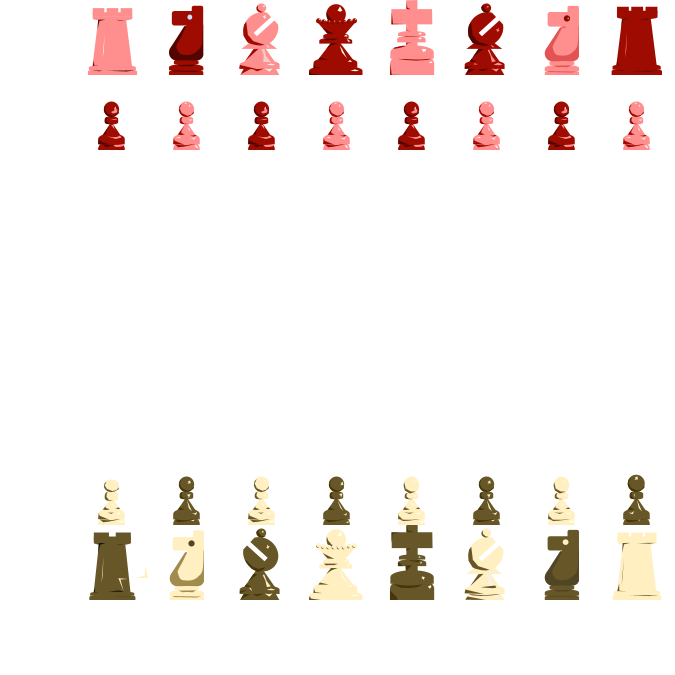
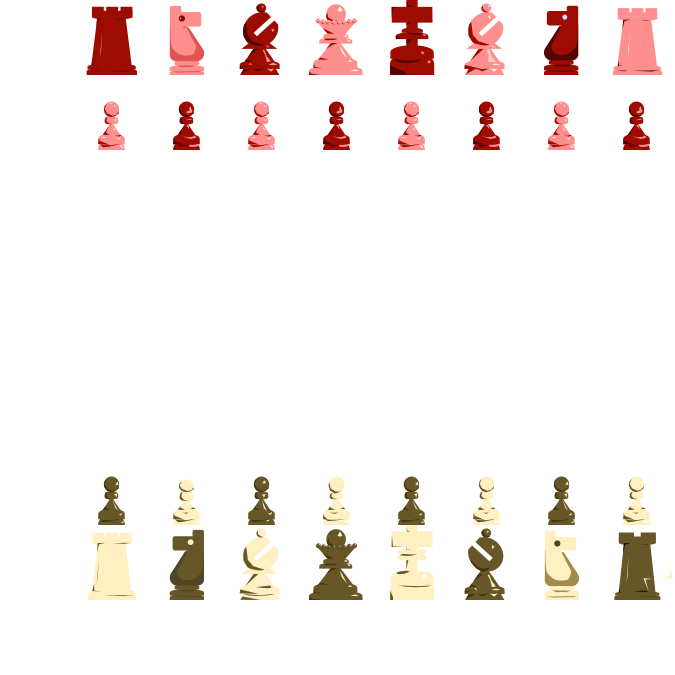
updates

diff --git a/board_factory/src/main.rs b/board_factory/src/main.rs
@@ -3,13 +3,9 @@ use std::path::Path;
 use image::{Rgba, ImageBuffer, GenericImageView};
 use rand::Rng;
 use std::{fs, io};
-// use std::fs::File;
-
-use std::io::Error;
-// use std::io::ErrorKind;
+use std::io::{ErrorKind, Error};
 use std::fmt::Debug;
-// use std::io::Read; 
-// use std::path::PathBuf;
+
 
 // fn combine_side_by_side<P: AsRef<Path>>(image_path1: P, image_path2: P, output_path: P) -> Result<(), image::ImageError> {
 fn combine_side_by_side<P: AsRef<Path> + Debug>(image_path1: P, image_path2: P, output_path: P) -> Result<(), image::ImageError> {
@@ -99,14 +95,6 @@ fn combine_top_to_bottom<P: AsRef<Path> + Debug>(image_path1: P, image_path2: P,
 
 
 
-
-// fn overlay_images<P: AsRef<Path>>(image_path1: P, image_path2: P, output_path: P) -> Result<(), image::ImageError> {
-// fn overlay_images<P: AsRef<Path> + std::fmt::Debug>(
-//         image_path1: P,
-//         image_path2: P,
-//         output_path: P,
-//     ) -> Result<(), image::ImageError> {
-//     println!("Overlaying images...");
 fn overlay_images<P: AsRef<Path> + std::fmt::Debug>(
     image_path1: P,
     image_path2: P,
@@ -118,10 +106,6 @@ fn overlay_images<P: AsRef<Path> + std::fmt::Debug>(
         &image_path2,
         &output_path
     );
-
-    // // Load the images.
-    // let mut image1 = image::open(image_path1)?.to_rgba8();
-    // let image2 = image::open(image_path2)?.to_rgba8();
 
     // Load the images with custom error handling
     let mut image1 = image::open(&image_path1)
@@ -151,11 +135,11 @@ fn overlay_images<P: AsRef<Path> + std::fmt::Debug>(
 
 // A simple alpha blending function. You might want to use a more sophisticated blending function depending on your needs.
 fn blend_pixels(bottom: &mut Rgba<u8>, top: Rgba<u8>) {
-    println!(
-        "\nblend_pixels...\nbottom: {:?}\ntop: {:?}",
-        bottom,
-        top,
-    );
+    // println!(
+    //     "\nblend_pixels...\nbottom: {:?}\ntop: {:?}",
+    //     bottom,
+    //     top,
+    // );
 
     let alpha_top = top[3] as f32 / 255.0;
     let alpha_bottom = bottom[3] as f32 * (1.0 - alpha_top) / 255.0;
@@ -169,10 +153,10 @@ fn blend_pixels(bottom: &mut Rgba<u8>, top: Rgba<u8>) {
 
 
 fn random_image_from_directory(directory: &str) -> Result<String, std::io::Error> {
-    println!(
-        "\nrandom_image_from_directory...\ndirectory: {:?}",
-        &directory,
-    );
+    // println!(
+    //     "\nrandom_image_from_directory...\ndirectory: {:?}",
+    //     &directory,
+    // );
     let paths: Vec<_> = fs::read_dir(directory)?
         .filter_map(Result::ok) // Only keep the Ok values
         .collect();
@@ -191,7 +175,7 @@ fn random_image_from_directory(directory: &str) -> Result<String, std::io::Error
 
 
 fn make_board_core(sandbox_path: &str, orientation_white: bool) -> Result<(), io::Error> {
-    println!("\nmake_board_core()...");
+    // println!("\nmake_board_core()...");
     let mut row_images = Vec::new();
 
     // Make the 8 Rows
@@ -249,12 +233,12 @@ fn make_board_core(sandbox_path: &str, orientation_white: bool) -> Result<(), io
 
 
 fn make_and_attach_letter_bar(sandbox_path: &str, orientation_white: bool, board_image_path: &str) -> Result<(), io::Error> {
-    println!(
-        "make_and_attach_letter_bar images...\nsandbox_path: {:?}\norientation_white: {:?}\nboard_image_path: {:?}",
-        &sandbox_path,
-        &orientation_white,
-        &board_image_path
-    );
+    // println!(
+    //     "make_and_attach_letter_bar images...\nsandbox_path: {:?}\norientation_white: {:?}\nboard_image_path: {:?}",
+    //     &sandbox_path,
+    //     &orientation_white,
+    //     &board_image_path
+    // );
 
     // Determine the order of letters
     let letters_order = if orientation_white {
@@ -295,12 +279,12 @@ fn make_and_attach_letter_bar(sandbox_path: &str, orientation_white: bool, board
 
 
 fn make_and_attach_number_bar(sandbox_path: &str, orientation_white: bool, board_image_path: &str) -> Result<(), io::Error> {
-    println!(
-        "make_and_attach_number_bar images...\nsandbox_path: {:?}\norientation_white: {:?}\nboard_image_path: {:?}",
-        &sandbox_path,
-        &orientation_white,
-        &board_image_path
-    );
+    // println!(
+    //     "make_and_attach_number_bar images...\nsandbox_path: {:?}\norientation_white: {:?}\nboard_image_path: {:?}",
+    //     &sandbox_path,
+    //     &orientation_white,
+    //     &board_image_path
+    // );
 
     // Determine the order of numbers
     let numbers_order = if orientation_white {
@@ -353,22 +337,12 @@ fn make_and_attach_number_bar(sandbox_path: &str, orientation_white: bool, board
 
 
 fn generate_chessboard_backboard_wrapper(game_name: &str, orientation_white: bool) -> Result<(), Error> {
-    println!(
-        "generate_chessboard_backboard_wrapper images...\ngame_name: {:?}\norientation_white: {:?}",
-        &game_name,
-        &orientation_white,
-    );
-    /*
-    Add ~two changes:
-    1. a new input to the function: game_name(str)
-    back_board sandbox path ->
-    games/{gamename}/sandboxes/sandbox
-    _backboard,
-    2. if folder already exists, delete it.
-    3. make sure function can clean-err
-    without crashing the server.
+    // println!(
+    //     "generate_chessboard_backboard_wrapper images...\ngame_name: {:?}\norientation_white: {:?}",
+    //     &game_name,
+    //     &orientation_white,
+    // );
 
-    */
     let sandbox_path: String = format!("games/{}/sandboxes/sandbox_backboard", game_name);
 
     // Check if the sandbox_backboard folder exists
@@ -415,19 +389,19 @@ fn generate_chessboard_backboard_wrapper(game_name: &str, orientation_white: boo
 }
 
 
-// use image::DynamicImage;
-// // Make chess_pieces_layer()
 
-// fn create_chess_pieces_layer(chessboard: &[[char; 8]; 8]) -> Result<ImageBuffer<Rgba<u8>, Vec<u8>>, io::Error> {
-//     println!(
-//         "\ncreate_chess_pieces_layer images...\nchessboard: {:?}",
-//         &chessboard,
-//     );
+// fn create_chess_pieces_layer(chessboard: &[[char; 8]; 8], white_orientation: bool) -> Result<ImageBuffer<Rgba<u8>, Vec<u8>>, io::Error> {
+//     let mut img = ImageBuffer::new(600, 600); // 8x8 squares at 75 pixels
 
-//     let mut img = ImageBuffer::new(600, 600); // Assuming 75x75 pixels for each square
 //     for (row, row_pieces) in chessboard.iter().enumerate() {
 //         for (col, &piece) in row_pieces.iter().enumerate() {
-//             let square_color = if (row + col) % 2 == 0 { "darksquare" } else { "lightsquare" }; // Fixed logic
+//             let (actual_row, actual_col) = if white_orientation {
+//                 (row, col)
+//             } else {
+//                 (7 - row, 7 - col)
+//             };
+            
+//             let square_color = if (actual_row + actual_col) % 2 != 0 { "darksquare" } else { "lightsquare" };
 //             let (piece_prefix, piece_suffix) = match piece {
 
 //                 'p' => ("p_", square_color),
@@ -443,28 +417,14 @@ fn generate_chessboard_backboard_wrapper(game_name: &str, orientation_white: boo
 //                 'Q' => ("Q_", square_color),
 //                 'K' => ("K_", square_color),
 //                 _ => continue,
+            
 //             };
-
-//             // let piece_image_path = format!("image_files/chess_pieces/{}{}", piece_prefix, piece_suffix);
-//             // let piece_image = image::open(Path::new(&piece_image_path))?;
-
-//             // let piece_image_path = format!("image_files/chess_pieces/{}{}/image.png", piece_prefix, piece_suffix); // Added a slash and image filename
 
 //             let texture_directory = format!("image_files/chess_pieces/{}{}", piece_prefix, piece_suffix);
 //             let piece_image_path = random_image_from_directory(&texture_directory)?;
-
-//             println!("Piece: {}", piece);
-//             println!("piece_prefix: {}", piece_prefix);
-//             println!("piece_suffix: {}", piece_suffix);
-//             println!("piece_image_path: {}", piece_image_path);
-
 //             let piece_image = image::open(Path::new(&piece_image_path)).map_err(|e| io::Error::new(ErrorKind::Other, e))?;
 
-//             let piece_image_path = format!("image_files/chess_pieces/{}{}", piece_prefix, piece_suffix);
-//             let piece_image = image::open(Path::new(&piece_image_path)).map_err(|e| io::Error::new(ErrorKind::Other, e))?;
-         
-//             let piece_image: DynamicImage = piece_image; // Ensure the correct type for piece_image
-//             let (x, y) = (col * 100, row * 100);
+//             let (x, y) = (col * 75, row * 75);
 
 //             // Overlay the piece image on the correct square
 //             for (i, j, pixel) in piece_image.pixels() {
@@ -474,38 +434,19 @@ fn generate_chessboard_backboard_wrapper(game_name: &str, orientation_white: boo
 //         }
 //     }
 
-//     //  append the blank rows and columns
-//     let bottom_blank_path = "image_files/legend_alpha_num/8x_blank_bottom.png";
-//     let top_blank_path = "image_files/legend_alpha_num/9x_blank_top.png";
-
-//     let bottom_blank_image = image::open(Path::new(bottom_blank_path)).map_err(|e| io::Error::new(ErrorKind::Other, e))?;
-//     let top_blank_image = image::open(Path::new(top_blank_path)).map_err(|e| io::Error::new(ErrorKind::Other, e))?;
-
-//     // let piece_image = image::open(Path::new(&piece_image_path)).map_err(|e| io::Error::new(ErrorKind::Other, e))?;
-
-//     // Concatenate the images
-//     let mut final_image = ImageBuffer::new(675, 675); // 9x9 squares at 75 pixels
-//     image::imageops::overlay(&mut final_image, &img, 0, 0);
-//     image::imageops::overlay(&mut final_image, &bottom_blank_image, 0, 600); // Append to the bottom
-//     image::imageops::overlay(&mut final_image, &top_blank_image, 600, 0); // Append to the right side
-
-//     Ok(final_image)
-
+//     Ok(img)
 // }
 
 
 fn create_chess_pieces_layer(chessboard: &[[char; 8]; 8], white_orientation: bool) -> Result<ImageBuffer<Rgba<u8>, Vec<u8>>, io::Error> {
     let mut img = ImageBuffer::new(600, 600); // 8x8 squares at 75 pixels
 
-    for (row, row_pieces) in chessboard.iter().enumerate() {
-        for (col, &piece) in row_pieces.iter().enumerate() {
-            let (actual_row, actual_col) = if white_orientation {
-                (row, col)
-            } else {
-                (7 - row, 7 - col)
-            };
-            
-            let square_color = if (actual_row + actual_col) % 2 == 0 { "darksquare" } else { "lightsquare" };
+
+    if white_orientation {
+        for (row, row_pieces) in chessboard.iter().enumerate() {
+            for (col, &piece) in row_pieces.iter().enumerate() {
+                // Process the piece, (row, col) will be the actual coordinates for white orientation
+                let square_color = if (row + col) % 2 != 0 { "darksquare" } else { "lightsquare" };
             let (piece_prefix, piece_suffix) = match piece {
 
                 'p' => ("p_", square_color),
@@ -535,60 +476,50 @@ fn create_chess_pieces_layer(chessboard: &[[char; 8]; 8], white_orientation: boo
                 let (x_new, y_new) = (x + i as usize, y + j as usize);
                 img.put_pixel(x_new as u32, y_new as u32, pixel);
             }
+            }
         }
+
+
+    } else {
+        for (row, row_pieces) in chessboard.iter().rev().enumerate() {
+            for (col, &piece) in row_pieces.iter().rev().enumerate() {
+                // Process the piece, (7 - row, 7 - col) will be the actual coordinates for black orientation
+                let square_color = if (row + col) % 2 != 0 { "darksquare" } else { "lightsquare" };
+            let (piece_prefix, piece_suffix) = match piece {
+
+                'p' => ("p_", square_color),
+                'r' => ("r_", square_color),
+                'n' => ("n_", square_color),
+                'b' => ("b_", square_color),
+                'q' => ("q_", square_color),
+                'k' => ("k_", square_color),
+                'P' => ("P_", square_color),
+                'R' => ("R_", square_color),
+                'N' => ("N_", square_color),
+                'B' => ("B_", square_color),
+                'Q' => ("Q_", square_color),
+                'K' => ("K_", square_color),
+                _ => continue,
+            
+            };
+
+            let texture_directory = format!("image_files/chess_pieces/{}{}", piece_prefix, piece_suffix);
+            let piece_image_path = random_image_from_directory(&texture_directory)?;
+            let piece_image = image::open(Path::new(&piece_image_path)).map_err(|e| io::Error::new(ErrorKind::Other, e))?;
+
+            let (x, y) = (col * 75, row * 75);
+
+            // Overlay the piece image on the correct square
+            for (i, j, pixel) in piece_image.pixels() {
+                let (x_new, y_new) = (x + i as usize, y + j as usize);
+                img.put_pixel(x_new as u32, y_new as u32, pixel);
+            }
+            }
+        }    
     }
 
     Ok(img)
 }
-
-
-use std::io::ErrorKind;
-// fn create_chessboard_with_pieces(game_board_state: &[[char; 8]; 8], game_name: &str,orientation_white: bool) -> Result<(), io::Error> {
-//     println!(
-//         "\ncreate_chessboard_with_pieces images...\ngame_board_state: {:?}",
-//         &game_board_state,
-//     );
-
-//     let pieces_image = create_chess_pieces_layer(game_board_state, orientation_white)?;
-//     let pieces_image_path = format!("games/{}/chess_pieces.png", game_name);
-//     pieces_image.save(Path::new(&pieces_image_path)).map_err(|e| io::Error::new(ErrorKind::Other, e))?;
-
-//     let back_board_path = format!("games/{}/back_board.png", game_name);
-//     let output_path = format!("games/{}/board.png", game_name);
-
-//     overlay_images(Path::new(&back_board_path), Path::new(&pieces_image_path), Path::new(&output_path))
-//         .map_err(|e| io::Error::new(ErrorKind::Other, e)) // Convert the error to io::Error
-// }
-
-
-// fn create_chessboard_with_pieces(chessboard: &[[char; 8]; 8], game_name: &str, white_orientation: bool) -> Result<(), io::Error> {
-//     let pieces_image = create_chess_pieces_layer(chessboard, white_orientation)?;
-
-//     let bottom_blank_path = "image_files/legend_alpha_num/8x_blank_bottom.png";
-//     let top_blank_path = "image_files/legend_alpha_num/9x_blank_top.png";
-//     let bottom_blank_image = image::open(Path::new(bottom_blank_path)).map_err(|e| io::Error::new(ErrorKind::Other, e))?;
-//     let top_blank_image = image::open(Path::new(top_blank_path)).map_err(|e| io::Error::new(ErrorKind::Other, e))?;
-
-//     let mut vertical_combined = ImageBuffer::new(675, 675); // 9x9 squares at 75 pixels
-//     combine_top_to_bottom(&pieces_image, &bottom_blank_image, &mut vertical_combined)?;
-    
-//     let mut final_image = ImageBuffer::new(675, 675); // 9x9 squares at 75 pixels
-//     combine_side_by_side(&vertical_combined, &top_blank_image, &mut final_image)?;
-
-//     let board_back_path = format!("games/{}/back_board.png", game_name);
-//     overlay_images(&board_back_path, &final_image, format!("games/{}/board.png", game_name))?;
-
-//     Ok(())
-// }
-
-
-// // Define the show_board_png function to get the PNG content from the file or other sources
-// fn show_board_png(new_game_name: &str) -> Result<Vec<u8>, std::io::Error> {
-//     let mut file = File::open(format!("games/{}/board.png", new_game_name))?;
-//     let mut buffer = Vec::new();
-//     file.read_to_end(&mut buffer)?;
-//     Ok(buffer)
-// }
 
 
 fn create_chessboard_with_pieces(
@@ -610,19 +541,16 @@ fn create_chessboard_with_pieces(
     // Open the bottom and top blank images
     let bottom_blank_path = "image_files/legend_alpha_num/8x_blank_bottom.png";
     let top_blank_path = "image_files/legend_alpha_num/9x_blank_top.png";
-    let bottom_blank_image = image::open(Path::new(bottom_blank_path)).map_err(|e| io::Error::new(ErrorKind::Other, e))?;
-    let top_blank_image = image::open(Path::new(top_blank_path)).map_err(|e| io::Error::new(ErrorKind::Other, e))?;
+    // let bottom_blank_image = image::open(Path::new(bottom_blank_path)).map_err(|e| io::Error::new(ErrorKind::Other, e))?;
+    // let top_blank_image = image::open(Path::new(top_blank_path)).map_err(|e| io::Error::new(ErrorKind::Other, e))?;
 
     // Combine pieces with bottom blank
     let vertical_combined_path = format!("games/{}/vertical_combined.png", game_name);
     combine_top_to_bottom(pieces_image_path, bottom_blank_path.to_string(), vertical_combined_path.to_string())
     .map_err(|e| io::Error::new(io::ErrorKind::Other, e))?;
 
-
-
-
     // Combine vertical combined with top blank
-    let final_pieces_image_path = format!("games/{}/final_pieces.png", game_name);
+    let final_pieces_image_path = format!("games/{}/final_pieces.png/", game_name);
     combine_side_by_side(top_blank_path.to_string(), vertical_combined_path.to_string(), final_pieces_image_path.to_string())
     .map_err(|e| io::Error::new(io::ErrorKind::Other, e))?;
 
@@ -638,7 +566,10 @@ fn create_chessboard_with_pieces(
 
 fn main() -> Result<(), std::io::Error> {
     let game_name = "game";
-    let white = true;
+
+    let white: bool = true; // 
+
+    // let white = false;
 
     // Set up board
     let board: [[char; 8]; 8] = [
